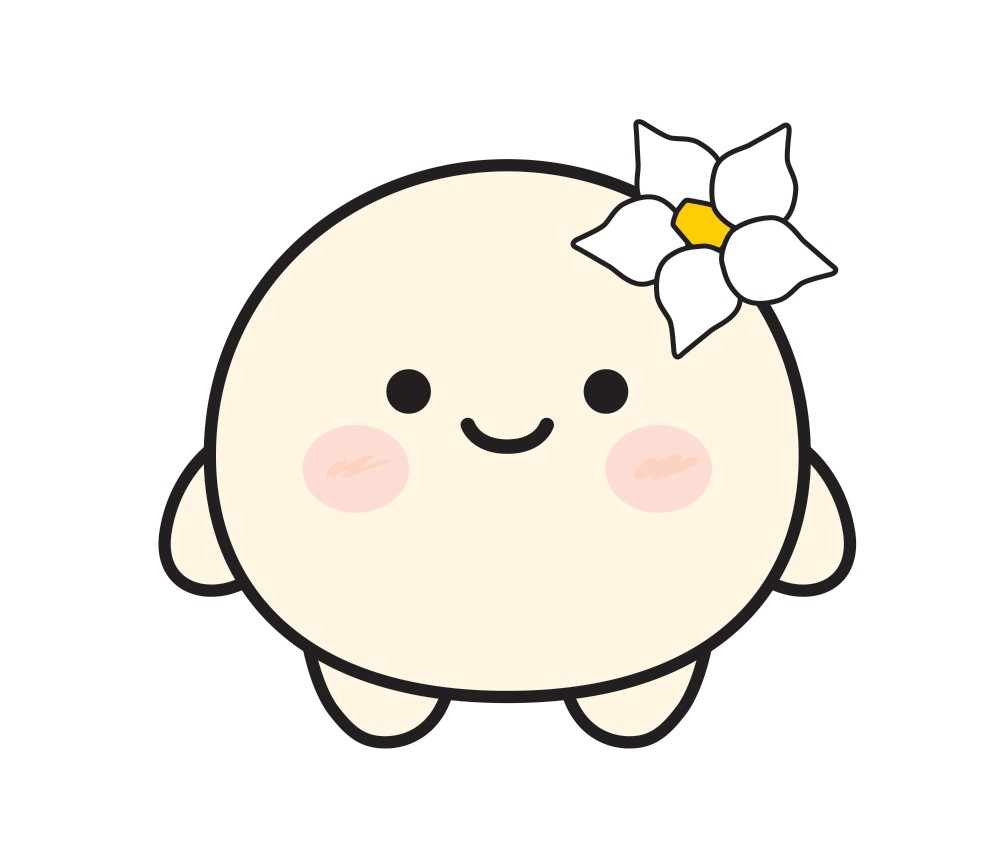
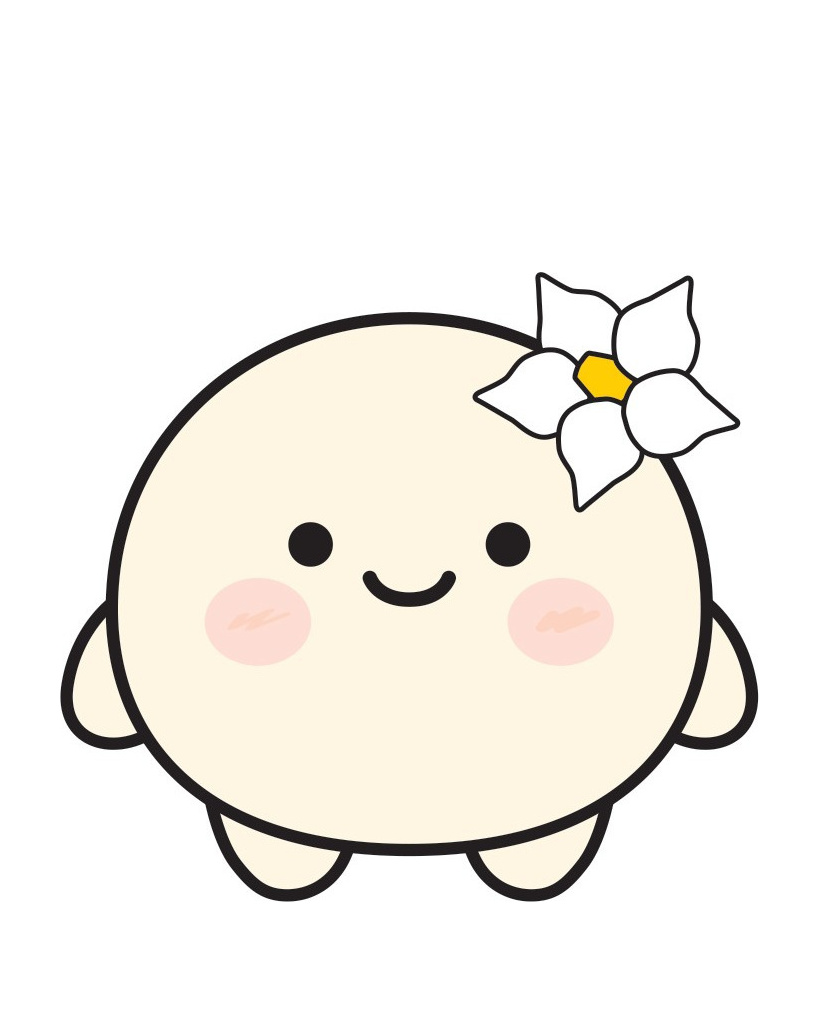
Add 쫀고매·꿀고매·당고매 and unify the five brand characters
- 06_characters: new 쫀고매(노란 고구마)·꿀고매(군고구마)·당고매(분홍 고구마)
- all five character images normalized to a 4:5 white card canvas with a
  shared scale and baseline so the lineup reads as one set
- 05_brand: five-character sheet as a wide banner in the BRAND gallery
- one-line intro per character, BRAND copy now says five characters

Changed region(s): [[0.061, 0.1211, 0.9451, 0.8778]]

diff --git a/FARMBLOSSOM_GitHub_Pages/css/style.css b/FARMBLOSSOM_GitHub_Pages/css/style.css
@@ -1,5 +1,5 @@
 :root{--ink:#27382e;--forest:#263e31;--forest-deep:#162b21;--leaf:#71836a;--sage:#dfe5d9;--paper:#f8f6ee;--cream:#f0ece1;--clay:#a76b50;--gold:#ddbd82;--muted:#647064;--line:#d8dace;--white:#fffefa;--font:system-ui,-apple-system,BlinkMacSystemFont,'Malgun Gothic','Apple SD Gothic Neo',sans-serif;--serif:'Batang','AppleMyungjo','Noto Serif KR',serif;--wrap:1200px;--header:76px;--section:112px;--radius:3px;--ease:cubic-bezier(.2,.7,.3,1)}
-*{box-sizing:border-box}html{scroll-behavior:smooth;scroll-padding-top:calc(var(--header) + 22px)}body{margin:0;background:var(--paper);color:var(--ink);font-family:var(--font);line-height:1.7;word-break:keep-all;overflow-wrap:anywhere}button,a{-webkit-tap-highlight-color:transparent}button{font:inherit;cursor:pointer}a{color:inherit;text-decoration:none}button:focus-visible,a:focus-visible{outline:3px solid var(--clay);outline-offset:4px}img{display:block;max-width:100%}[hidden]{display:none!important}.wrap{max-width:var(--wrap);width:calc(100% - 96px);margin:auto}.sr-only,.skip:not(:focus){position:absolute;width:1px;height:1px;overflow:hidden;clip-path:inset(50%)}.skip:focus{position:fixed;top:0;left:0;background:white;padding:12px;z-index:100}.header{position:sticky;top:0;z-index:20;background:rgba(248,246,238,.97);border-bottom:1px solid var(--line);backdrop-filter:blur(10px)}.nav-wrap{height:var(--header);max-width:var(--wrap);width:calc(100% - 96px);margin:auto;display:flex;align-items:center;justify-content:space-between}.logo{display:flex;align-items:center;min-width:130px}.wordmark{display:flex;flex-direction:column;line-height:1.1}.wordmark strong{font-size:26px;letter-spacing:-2px}.wordmark small{font-size:9px;letter-spacing:2px;margin-top:5px;font-weight:700}.logo img{height:60px;width:auto;max-width:190px;object-fit:contain;object-position:left center;transform:translateY(1px)}nav{display:flex;gap:36px;align-items:center}nav a{font-size:12px;letter-spacing:1.6px;font-weight:700;position:relative;padding:12px 0}nav a::after{content:'';position:absolute;bottom:4px;left:0;width:0;height:1px;background:var(--clay);transition:width .2s}nav a:hover::after,nav a.active::after{width:100%}nav a.active{color:var(--clay)}.menu-toggle{display:none}.hero{min-height:650px;height:min(760px,calc(100svh - var(--header)));position:relative;isolation:isolate;display:flex;align-items:center;color:var(--white);background:var(--forest);overflow:hidden}.hero-slides,.hero-shade,.hero-pattern{position:absolute;inset:0;z-index:-1}.hero-pattern{background:radial-gradient(ellipse at 82% 35%,#60775b 0,transparent 60%),linear-gradient(120deg,var(--forest-deep),var(--forest));color:#d3d9bd;opacity:.86}.hero-pattern svg{position:absolute;right:-3%;bottom:-18%;height:110%;width:auto;opacity:.36}.hero-slides{z-index:-1}.hero-slides img{position:absolute;width:100%;height:100%;object-fit:cover;opacity:0;transition:opacity 1.1s}.hero-slides img.current{opacity:1}.hero.has-photo .hero-pattern{display:none}.hero-shade{z-index:-1;background:linear-gradient(90deg,rgba(15,32,23,.85),rgba(15,32,23,.43) 60%,rgba(15,32,23,.15));pointer-events:none}.hero-content{padding:72px 0 100px}.eyebrow{font-size:11px;font-weight:750;letter-spacing:2.1px;color:var(--muted);display:inline-flex;gap:9px;align-items:center}.eyebrow>span{width:24px;height:1px;background:currentColor}.eyebrow.light{color:#e1d9bc}.hero h1{font-size:clamp(46px,6.2vw,86px);line-height:1.23;letter-spacing:-.065em;margin:26px 0 22px;font-weight:650}.hero h1 em{font-style:normal;color:#e0c38f}.hero p{font-size:18px;color:#e4e7d9;line-height:1.75}.primary,.outline{display:inline-flex;align-items:center;justify-content:space-between;gap:32px;border:1px solid transparent;padding:15px 24px;font-size:14px;font-weight:650;transition:background .2s,color .2s}.primary{background:var(--paper);color:var(--ink);margin-top:22px}.primary:hover{background:var(--gold)}.hero-bottom{position:absolute;bottom:0;left:50%;transform:translateX(-50%);display:flex;align-items:center;gap:18px;justify-content:space-between;border-top:1px solid #ffffff38;padding:20px 0;font-size:10px;letter-spacing:1.6px;color:#e1e3d5}.hero-bottom button{border:1px solid #ffffff55;background:transparent;color:white;padding:4px 10px}.slogan{background:var(--cream);border-bottom:1px solid var(--line)}.slogan-inner{display:flex;justify-content:space-between;align-items:center;gap:25px;padding:34px 0}.slogan p{margin:0;font-size:clamp(17px,2.3vw,26px);letter-spacing:-.045em;line-height:1.55}.slogan strong{color:var(--forest)}.slogan-mark{color:var(--clay);font-size:42px}.section{padding-top:var(--section);padding-bottom:var(--section)}.section-heading{margin-bottom:42px}.section-heading h2,.contact h2{margin:13px 0 0;line-height:1.28;font-size:clamp(32px,4.2vw,57px);letter-spacing:-.065em;font-weight:650}.section-heading h2 em{font-style:normal;color:var(--leaf)}.split{display:flex;justify-content:space-between;gap:24px;align-items:flex-end}.split p{margin:0;color:var(--muted);font-size:15px}.about-layout{display:grid;grid-template-columns:1.05fr 1fr;gap:64px;align-items:center}.about-media{min-height:420px;aspect-ratio:1.15;overflow:hidden;position:relative}.visual-placeholder{background:var(--sage);color:var(--forest);display:flex;flex-direction:column;justify-content:space-between;align-items:flex-start;padding:24px}.placeholder-index{font-size:10px;letter-spacing:2px;font-weight:700}.placeholder-art{font-size:clamp(100px,17vw,220px);line-height:1;color:var(--leaf);opacity:.45;align-self:center}.placeholder-note{font-size:12px;color:var(--muted)}.about-copy p{color:var(--muted);margin:0 0 20px}.about-copy .lead{font-size:22px;color:var(--ink);font-weight:650;letter-spacing:-.04em}.founder{border-top:1px solid var(--line);margin-top:32px;padding-top:26px}.founder h3{font-size:25px;line-height:1.35;margin:8px 0 15px;letter-spacing:-.04em}.skills{display:flex;gap:8px;flex-wrap:wrap}.skills span{font-size:12px;border:1px solid var(--line);padding:5px 10px}.projects-section{background:#eeefe7;border-block:1px solid var(--line)}.project-grid{display:grid;grid-template-columns:repeat(3,1fr);gap:20px}.project-card{display:flex;flex-direction:column;text-align:left;border:1px solid var(--line);background:var(--paper);padding:0;color:var(--ink);transition:transform .25s var(--ease),box-shadow .25s;min-width:0}.project-card:hover{transform:translateY(-5px);box-shadow:0 12px 30px #27382e12}.project-visual{aspect-ratio:4/5;position:relative;overflow:hidden;display:flex;align-items:center;justify-content:center;background:#b9c6ad;color:#49674c}.project-visual.brand{background:#e6d5ba;color:#9b664c}.project-visual.innovation{background:#c7d4cd;color:#42685e}.project-visual .graphic{width:100%;height:100%;opacity:.8}.project-visual img{width:100%;height:100%;object-fit:cover}.project-visual img.contain{object-fit:contain}.project-body{padding:24px;flex:1;display:flex;flex-direction:column;align-items:flex-start}.project-name{font-size:11px;letter-spacing:2px;color:var(--muted);font-weight:750}.project-name b{color:var(--clay);margin-right:5px;font-weight:800}.project-body h3{font-size:26px;letter-spacing:-.055em;margin:6px 0 10px}.project-body p{margin:0 0 25px;color:var(--muted);font-size:14px}.project-link{margin-top:auto;width:100%;display:flex;justify-content:space-between;border-top:1px solid var(--line);padding-top:13px;font-size:13px;font-weight:700}.status-key{display:flex;gap:18px;flex-wrap:wrap;margin-top:24px;font-size:12px;color:var(--muted)}.dot{display:inline-block;width:8px;height:8px;border-radius:50%;margin-right:5px;background:var(--leaf)}.dot.progress{background:var(--clay)}.dot.planned{background:transparent;border:1px solid var(--muted)}.filters{display:flex;flex-wrap:wrap;gap:8px;margin-bottom:25px}.filters button,.outline{background:transparent;color:var(--ink);border:1px solid var(--line)}.filters button{font-size:13px;padding:8px 20px}.filters button[aria-pressed=true],.outline:hover{background:var(--forest);color:var(--white);border-color:var(--forest)}.story-grid{display:grid;grid-template-columns:repeat(3,1fr);gap:36px 24px}.story-card{border:0;background:transparent;padding:0;text-align:left;color:var(--ink);min-width:0}.story-card .thumb{aspect-ratio:4/5;background:#fff;border:1px solid #e6e7db;overflow:hidden}.story-card img{width:100%;height:100%;object-fit:cover;transition:transform .4s}.story-card img.contain{object-fit:contain}.story-card:hover img{transform:scale(1.035)}.story-card h3{font-size:17px;margin:8px 0 0;line-height:1.4}.story-meta{display:block;color:var(--muted);font-size:11px;letter-spacing:.4px;margin-top:10px}.empty{grid-column:1/-1;border:1px dashed var(--line);background:var(--cream);padding:42px 25px;display:flex;align-items:center;justify-content:space-between;gap:20px}.empty strong{font-size:18px;letter-spacing:-.04em}.empty p{color:var(--muted);font-size:13px;margin:5px 0 0}.empty-symbol{font-size:48px;color:var(--leaf);opacity:.7}.more-row{text-align:center;margin-top:28px}.contact{background:var(--forest);color:var(--white)}.contact-layout{display:grid;grid-template-columns:1.2fr 1fr;gap:60px;align-items:end}.contact h2 em{font-style:normal;color:var(--gold)}.contact-copy p{color:#dce3d5;margin:0 0 25px}.contact-link{display:flex;justify-content:space-between;border-bottom:1px solid #ffffff40;padding:12px 0}.contact-pending{color:#c9d3c3;font-size:13px;border-top:1px solid #ffffff40;padding-top:15px}.footer{background:var(--forest-deep);color:#dce3d5}.footer-inner{display:flex;gap:20px;align-items:center;justify-content:space-between;padding:28px 0;font-size:12px}.footer-logo{font-size:21px;font-weight:700;letter-spacing:-1px}.footer-logo{display:inline-flex;align-items:baseline;gap:9px}.footer-logo small{font-size:10.5px;letter-spacing:.16em;margin-left:0;color:#b6c4ad}.footer p{margin:0}.top-button{position:fixed;bottom:23px;right:23px;width:46px;height:46px;background:var(--paper);border:1px solid var(--line);color:var(--ink);z-index:15;box-shadow:0 4px 15px #0001}dialog{color:var(--ink);background:var(--paper);border:1px solid var(--line);padding:0;width:min(900px,calc(100% - 32px));max-height:88dvh;overflow:auto}dialog::backdrop{background:#13251caa}body:has(dialog[open]){overflow:hidden}.dialog-top{position:sticky;top:0;background:var(--paper);z-index:1;display:flex;align-items:center;justify-content:space-between;padding:12px 28px;border-bottom:1px solid var(--line)}.close{background:transparent;border:0;color:inherit;font-size:30px;line-height:1;padding:6px 10px}.dialog-inner{padding:28px}.dialog-inner h2{font-size:36px;letter-spacing:-.05em;margin:0 0 8px}.dialog-inner>p{color:var(--muted)}.group-grid{display:grid;grid-template-columns:repeat(3,1fr);gap:12px;margin:26px 0}.group{border-top:1px solid var(--line);padding:12px 0}.group h3{font-size:14px;margin:0}.group ul{padding-left:18px;font-size:13px;color:var(--muted)}.gallery{display:grid;grid-template-columns:repeat(3,1fr);gap:12px}.gallery.n1{grid-template-columns:minmax(0,340px);justify-content:center}.gallery.n2{grid-template-columns:repeat(2,1fr)}.gallery.n3{grid-template-columns:repeat(3,1fr)}.gallery button,.about-media button{padding:0;border:0;background:#fff;width:100%;overflow:hidden;aspect-ratio:4/5;cursor:zoom-in}.gallery img,.about-media img{width:100%;height:100%;object-fit:cover}.gallery img.contain,.about-media img.contain{object-fit:contain}.about-media.gallery{padding:0;display:grid;grid-template-columns:1fr 1fr;grid-auto-rows:minmax(0,1fr);gap:12px;min-height:0;height:auto;aspect-ratio:1.53}.about-media.gallery button{aspect-ratio:auto;height:100%;box-shadow:inset 0 0 0 1px #0000000f}.lightbox{background:#15251d;color:white;width:fit-content;min-width:min(320px,100%);max-width:min(1100px,calc(100% - 20px));max-height:95dvh;border:0;overflow:auto}.lightbox-top{display:flex;align-items:center;justify-content:space-between;padding:8px 16px}.lightbox-stage{display:grid;grid-template-columns:45px auto 45px;align-items:center;min-height:180px;touch-action:pan-y}.lightbox-stage img{max-height:72dvh;max-width:calc(100vw - 150px);width:auto;height:auto;object-fit:contain;justify-self:center}.lightbox-stage button{background:transparent;border:0;color:white;font-size:40px;padding:0}.lightbox p{text-align:center;margin:10px 15px 20px;font-size:13px}.broken{background:var(--cream);display:grid;place-items:center;color:var(--muted);font-size:12px;min-height:100%;padding:14px;text-align:center}.lightbox .broken{color:white;background:transparent}.reveal{opacity:0;transform:translateY(14px);transition:opacity .65s,transform .65s}.reveal.visible{opacity:1;transform:none}@media(prefers-reduced-motion:reduce){*,*::before,*::after{scroll-behavior:auto!important;animation:none!important;transition:none!important}.reveal{opacity:1;transform:none}}
+*{box-sizing:border-box}html{scroll-behavior:smooth;scroll-padding-top:calc(var(--header) + 22px)}body{margin:0;background:var(--paper);color:var(--ink);font-family:var(--font);line-height:1.7;word-break:keep-all;overflow-wrap:anywhere}button,a{-webkit-tap-highlight-color:transparent}button{font:inherit;cursor:pointer}a{color:inherit;text-decoration:none}button:focus-visible,a:focus-visible{outline:3px solid var(--clay);outline-offset:4px}img{display:block;max-width:100%}[hidden]{display:none!important}.wrap{max-width:var(--wrap);width:calc(100% - 96px);margin:auto}.sr-only,.skip:not(:focus){position:absolute;width:1px;height:1px;overflow:hidden;clip-path:inset(50%)}.skip:focus{position:fixed;top:0;left:0;background:white;padding:12px;z-index:100}.header{position:sticky;top:0;z-index:20;background:rgba(248,246,238,.97);border-bottom:1px solid var(--line);backdrop-filter:blur(10px)}.nav-wrap{height:var(--header);max-width:var(--wrap);width:calc(100% - 96px);margin:auto;display:flex;align-items:center;justify-content:space-between}.logo{display:flex;align-items:center;min-width:130px}.wordmark{display:flex;flex-direction:column;line-height:1.1}.wordmark strong{font-size:26px;letter-spacing:-2px}.wordmark small{font-size:9px;letter-spacing:2px;margin-top:5px;font-weight:700}.logo img{height:60px;width:auto;max-width:190px;object-fit:contain;object-position:left center;transform:translateY(1px)}nav{display:flex;gap:36px;align-items:center}nav a{font-size:12px;letter-spacing:1.6px;font-weight:700;position:relative;padding:12px 0}nav a::after{content:'';position:absolute;bottom:4px;left:0;width:0;height:1px;background:var(--clay);transition:width .2s}nav a:hover::after,nav a.active::after{width:100%}nav a.active{color:var(--clay)}.menu-toggle{display:none}.hero{min-height:650px;height:min(760px,calc(100svh - var(--header)));position:relative;isolation:isolate;display:flex;align-items:center;color:var(--white);background:var(--forest);overflow:hidden}.hero-slides,.hero-shade,.hero-pattern{position:absolute;inset:0;z-index:-1}.hero-pattern{background:radial-gradient(ellipse at 82% 35%,#60775b 0,transparent 60%),linear-gradient(120deg,var(--forest-deep),var(--forest));color:#d3d9bd;opacity:.86}.hero-pattern svg{position:absolute;right:-3%;bottom:-18%;height:110%;width:auto;opacity:.36}.hero-slides{z-index:-1}.hero-slides img{position:absolute;width:100%;height:100%;object-fit:cover;opacity:0;transition:opacity 1.1s}.hero-slides img.current{opacity:1}.hero.has-photo .hero-pattern{display:none}.hero-shade{z-index:-1;background:linear-gradient(90deg,rgba(15,32,23,.85),rgba(15,32,23,.43) 60%,rgba(15,32,23,.15));pointer-events:none}.hero-content{padding:72px 0 100px}.eyebrow{font-size:11px;font-weight:750;letter-spacing:2.1px;color:var(--muted);display:inline-flex;gap:9px;align-items:center}.eyebrow>span{width:24px;height:1px;background:currentColor}.eyebrow.light{color:#e1d9bc}.hero h1{font-size:clamp(46px,6.2vw,86px);line-height:1.23;letter-spacing:-.065em;margin:26px 0 22px;font-weight:650}.hero h1 em{font-style:normal;color:#e0c38f}.hero p{font-size:18px;color:#e4e7d9;line-height:1.75}.primary,.outline{display:inline-flex;align-items:center;justify-content:space-between;gap:32px;border:1px solid transparent;padding:15px 24px;font-size:14px;font-weight:650;transition:background .2s,color .2s}.primary{background:var(--paper);color:var(--ink);margin-top:22px}.primary:hover{background:var(--gold)}.hero-bottom{position:absolute;bottom:0;left:50%;transform:translateX(-50%);display:flex;align-items:center;gap:18px;justify-content:space-between;border-top:1px solid #ffffff38;padding:20px 0;font-size:10px;letter-spacing:1.6px;color:#e1e3d5}.hero-bottom button{border:1px solid #ffffff55;background:transparent;color:white;padding:4px 10px}.slogan{background:var(--cream);border-bottom:1px solid var(--line)}.slogan-inner{display:flex;justify-content:space-between;align-items:center;gap:25px;padding:34px 0}.slogan p{margin:0;font-size:clamp(17px,2.3vw,26px);letter-spacing:-.045em;line-height:1.55}.slogan strong{color:var(--forest)}.slogan-mark{color:var(--clay);font-size:42px}.section{padding-top:var(--section);padding-bottom:var(--section)}.section-heading{margin-bottom:42px}.section-heading h2,.contact h2{margin:13px 0 0;line-height:1.28;font-size:clamp(32px,4.2vw,57px);letter-spacing:-.065em;font-weight:650}.section-heading h2 em{font-style:normal;color:var(--leaf)}.split{display:flex;justify-content:space-between;gap:24px;align-items:flex-end}.split p{margin:0;color:var(--muted);font-size:15px}.about-layout{display:grid;grid-template-columns:1.05fr 1fr;gap:64px;align-items:center}.about-media{min-height:420px;aspect-ratio:1.15;overflow:hidden;position:relative}.visual-placeholder{background:var(--sage);color:var(--forest);display:flex;flex-direction:column;justify-content:space-between;align-items:flex-start;padding:24px}.placeholder-index{font-size:10px;letter-spacing:2px;font-weight:700}.placeholder-art{font-size:clamp(100px,17vw,220px);line-height:1;color:var(--leaf);opacity:.45;align-self:center}.placeholder-note{font-size:12px;color:var(--muted)}.about-copy p{color:var(--muted);margin:0 0 20px}.about-copy .lead{font-size:22px;color:var(--ink);font-weight:650;letter-spacing:-.04em}.founder{border-top:1px solid var(--line);margin-top:32px;padding-top:26px}.founder h3{font-size:25px;line-height:1.35;margin:8px 0 15px;letter-spacing:-.04em}.skills{display:flex;gap:8px;flex-wrap:wrap}.skills span{font-size:12px;border:1px solid var(--line);padding:5px 10px}.projects-section{background:#eeefe7;border-block:1px solid var(--line)}.project-grid{display:grid;grid-template-columns:repeat(3,1fr);gap:20px}.project-card{display:flex;flex-direction:column;text-align:left;border:1px solid var(--line);background:var(--paper);padding:0;color:var(--ink);transition:transform .25s var(--ease),box-shadow .25s;min-width:0}.project-card:hover{transform:translateY(-5px);box-shadow:0 12px 30px #27382e12}.project-visual{aspect-ratio:4/5;position:relative;overflow:hidden;display:flex;align-items:center;justify-content:center;background:#b9c6ad;color:#49674c}.project-visual.brand{background:#e6d5ba;color:#9b664c}.project-visual.innovation{background:#c7d4cd;color:#42685e}.project-visual .graphic{width:100%;height:100%;opacity:.8}.project-visual img{width:100%;height:100%;object-fit:cover}.project-visual img.contain{object-fit:contain}.project-body{padding:24px;flex:1;display:flex;flex-direction:column;align-items:flex-start}.project-name{font-size:11px;letter-spacing:2px;color:var(--muted);font-weight:750}.project-name b{color:var(--clay);margin-right:5px;font-weight:800}.project-body h3{font-size:26px;letter-spacing:-.055em;margin:6px 0 10px}.project-body p{margin:0 0 25px;color:var(--muted);font-size:14px}.project-link{margin-top:auto;width:100%;display:flex;justify-content:space-between;border-top:1px solid var(--line);padding-top:13px;font-size:13px;font-weight:700}.status-key{display:flex;gap:18px;flex-wrap:wrap;margin-top:24px;font-size:12px;color:var(--muted)}.dot{display:inline-block;width:8px;height:8px;border-radius:50%;margin-right:5px;background:var(--leaf)}.dot.progress{background:var(--clay)}.dot.planned{background:transparent;border:1px solid var(--muted)}.filters{display:flex;flex-wrap:wrap;gap:8px;margin-bottom:25px}.filters button,.outline{background:transparent;color:var(--ink);border:1px solid var(--line)}.filters button{font-size:13px;padding:8px 20px}.filters button[aria-pressed=true],.outline:hover{background:var(--forest);color:var(--white);border-color:var(--forest)}.story-grid{display:grid;grid-template-columns:repeat(3,1fr);gap:36px 24px}.story-card{border:0;background:transparent;padding:0;text-align:left;color:var(--ink);min-width:0}.story-card .thumb{aspect-ratio:4/5;background:#fff;border:1px solid #e6e7db;overflow:hidden}.story-card img{width:100%;height:100%;object-fit:cover;transition:transform .4s}.story-card img.contain{object-fit:contain}.story-card:hover img{transform:scale(1.035)}.story-card h3{font-size:17px;margin:8px 0 0;line-height:1.4}.story-meta{display:block;color:var(--muted);font-size:11px;letter-spacing:.4px;margin-top:10px}.empty{grid-column:1/-1;border:1px dashed var(--line);background:var(--cream);padding:42px 25px;display:flex;align-items:center;justify-content:space-between;gap:20px}.empty strong{font-size:18px;letter-spacing:-.04em}.empty p{color:var(--muted);font-size:13px;margin:5px 0 0}.empty-symbol{font-size:48px;color:var(--leaf);opacity:.7}.more-row{text-align:center;margin-top:28px}.contact{background:var(--forest);color:var(--white)}.contact-layout{display:grid;grid-template-columns:1.2fr 1fr;gap:60px;align-items:end}.contact h2 em{font-style:normal;color:var(--gold)}.contact-copy p{color:#dce3d5;margin:0 0 25px}.contact-link{display:flex;justify-content:space-between;border-bottom:1px solid #ffffff40;padding:12px 0}.contact-pending{color:#c9d3c3;font-size:13px;border-top:1px solid #ffffff40;padding-top:15px}.footer{background:var(--forest-deep);color:#dce3d5}.footer-inner{display:flex;gap:20px;align-items:center;justify-content:space-between;padding:28px 0;font-size:12px}.footer-logo{font-size:21px;font-weight:700;letter-spacing:-1px}.footer-logo{display:inline-flex;align-items:baseline;gap:9px}.footer-logo small{font-size:10.5px;letter-spacing:.16em;margin-left:0;color:#b6c4ad}.footer p{margin:0}.top-button{position:fixed;bottom:23px;right:23px;width:46px;height:46px;background:var(--paper);border:1px solid var(--line);color:var(--ink);z-index:15;box-shadow:0 4px 15px #0001}dialog{color:var(--ink);background:var(--paper);border:1px solid var(--line);padding:0;width:min(900px,calc(100% - 32px));max-height:88dvh;overflow:auto}dialog::backdrop{background:#13251caa}body:has(dialog[open]){overflow:hidden}.dialog-top{position:sticky;top:0;background:var(--paper);z-index:1;display:flex;align-items:center;justify-content:space-between;padding:12px 28px;border-bottom:1px solid var(--line)}.close{background:transparent;border:0;color:inherit;font-size:30px;line-height:1;padding:6px 10px}.dialog-inner{padding:28px}.dialog-inner h2{font-size:36px;letter-spacing:-.05em;margin:0 0 8px}.dialog-inner>p{color:var(--muted)}.group-grid{display:grid;grid-template-columns:repeat(3,1fr);gap:12px;margin:26px 0}.group{border-top:1px solid var(--line);padding:12px 0}.group h3{font-size:14px;margin:0}.group ul{padding-left:18px;font-size:13px;color:var(--muted)}.gallery{display:grid;grid-template-columns:repeat(3,1fr);gap:12px}.gallery.n1{grid-template-columns:minmax(0,340px);justify-content:center}.gallery.n2{grid-template-columns:repeat(2,1fr)}.gallery.n3{grid-template-columns:repeat(3,1fr)}.gallery button,.about-media button{padding:0;border:0;background:#fff;width:100%;overflow:hidden;aspect-ratio:4/5;cursor:zoom-in}.gallery img,.about-media img{width:100%;height:100%;object-fit:cover}.gallery img.contain,.about-media img.contain{object-fit:contain}.gallery button.wide{grid-column:1/-1;aspect-ratio:2.1/1}.about-media.gallery{padding:0;display:grid;grid-template-columns:1fr 1fr;grid-auto-rows:minmax(0,1fr);gap:12px;min-height:0;height:auto;aspect-ratio:1.53}.about-media.gallery button{aspect-ratio:auto;height:100%;box-shadow:inset 0 0 0 1px #0000000f}.lightbox{background:#15251d;color:white;width:fit-content;min-width:min(320px,100%);max-width:min(1100px,calc(100% - 20px));max-height:95dvh;border:0;overflow:auto}.lightbox-top{display:flex;align-items:center;justify-content:space-between;padding:8px 16px}.lightbox-stage{display:grid;grid-template-columns:45px auto 45px;align-items:center;min-height:180px;touch-action:pan-y}.lightbox-stage img{max-height:72dvh;max-width:calc(100vw - 150px);width:auto;height:auto;object-fit:contain;justify-self:center}.lightbox-stage button{background:transparent;border:0;color:white;font-size:40px;padding:0}.lightbox p{text-align:center;margin:10px 15px 20px;font-size:13px}.broken{background:var(--cream);display:grid;place-items:center;color:var(--muted);font-size:12px;min-height:100%;padding:14px;text-align:center}.lightbox .broken{color:white;background:transparent}.reveal{opacity:0;transform:translateY(14px);transition:opacity .65s,transform .65s}.reveal.visible{opacity:1;transform:none}@media(prefers-reduced-motion:reduce){*,*::before,*::after{scroll-behavior:auto!important;animation:none!important;transition:none!important}.reveal{opacity:1;transform:none}}
 .gallery .gallery-more{display:flex;justify-content:center;min-height:44px;background:transparent;border:1px solid var(--line)}.gallery .gallery-more:hover{background:var(--forest);color:var(--white)}.lightbox-stage img[hidden]{display:none}.lightbox-stage:has(img[hidden]){grid-template-columns:45px 1fr 45px}.lightbox-stage:has(img[hidden]) .next{grid-column:3}
 #contact-links{display:flex;flex-direction:column}
 .contact-link{align-items:center;gap:16px;justify-content:space-between;padding:15px 2px;border-top:1px solid #ffffff2e;transition:border-color .2s}

diff --git a/FARMBLOSSOM_GitHub_Pages/js/main.js b/FARMBLOSSOM_GitHub_Pages/js/main.js
@@ -11,7 +11,7 @@ const projectDialog=$('#project-dialog'), lightbox=$('#lightbox');
 const dateValid=s=>{if(typeof s!=='string'||!/^\d{4}-\d{2}-\d{2}$/.test(s))return '';const d=new Date(s+'T00:00:00Z');return !isNaN(d)&&d.toISOString().slice(0,10)===s?s:''};
 const filename=p=>p.split('/').pop().replace(/\.[^.]+$/,'');
 const isCover=p=>/^(?:00[ _-])?cover(?:[ _.-]|$)/i.test(filename(p));
-function normalize(path){if(typeof path!=='string'||!path.startsWith('images/'))return null;const parts=path.split('/');if(parts.length<3||!folders.has(parts[1])||parts.some(p=>p==='.'||p==='..'||!p)||! /\.(jpe?g|png|webp|gif|svg)$/i.test(path))return null;const folder=parts[1],stem=filename(path),meta=D.images[path]||{},match=stem.match(/^(\d{4})[-_.]?(\d{2})[-_.]?(\d{2})(?=$|[ _.-])/);const date=dateValid(meta.date)|| (match?dateValid(`${match[1]}-${match[2]}-${match[3]}`):'');const prefix=stem.replace(/^\d{4}[-_.]?\d{2}[-_.]?\d{2}[ _.-]*/,'').match(/^(농업|브랜드|기술|창업|farm|brand|tech|startup)(?:[ _.-]|$)/i);const inferred=prefix?({'농업':'farm','브랜드':'brand','기술':'tech','창업':'startup'}[prefix[1]]||prefix[1].toLowerCase()):'';const category=Object.hasOwn(catNames,meta.category)&&meta.category!=='all'?meta.category:catFor[folder]||inferred||'';return {path,folder,url:parts.map(encodeURIComponent).join('/'),title:meta.title||stem,description:meta.description||'',date,category,story:meta.story!==false,contain:meta.fit?meta.fit==='contain':['01_logo','03_about','04_farm','05_brand','06_characters'].includes(folder),cover:isCover(path)}}
+function normalize(path){if(typeof path!=='string'||!path.startsWith('images/'))return null;const parts=path.split('/');if(parts.length<3||!folders.has(parts[1])||parts.some(p=>p==='.'||p==='..'||!p)||! /\.(jpe?g|png|webp|gif|svg)$/i.test(path))return null;const folder=parts[1],stem=filename(path),meta=D.images[path]||{},match=stem.match(/^(\d{4})[-_.]?(\d{2})[-_.]?(\d{2})(?=$|[ _.-])/);const date=dateValid(meta.date)|| (match?dateValid(`${match[1]}-${match[2]}-${match[3]}`):'');const prefix=stem.replace(/^\d{4}[-_.]?\d{2}[-_.]?\d{2}[ _.-]*/,'').match(/^(농업|브랜드|기술|창업|farm|brand|tech|startup)(?:[ _.-]|$)/i);const inferred=prefix?({'농업':'farm','브랜드':'brand','기술':'tech','창업':'startup'}[prefix[1]]||prefix[1].toLowerCase()):'';const category=Object.hasOwn(catNames,meta.category)&&meta.category!=='all'?meta.category:catFor[folder]||inferred||'';return {path,folder,url:parts.map(encodeURIComponent).join('/'),title:meta.title||stem,description:meta.description||'',date,category,story:meta.story!==false,contain:meta.fit?meta.fit==='contain':['01_logo','03_about','04_farm','05_brand','06_characters'].includes(folder),cover:isCover(path),wide:meta.wide===true}}
 const byName=(a,b)=>a.path.localeCompare(b.path,'ko',{numeric:true,sensitivity:'base'});
 const byCover=(a,b)=>Number(b.cover)-Number(a.cover)||byName(a,b);
 const pick=fs=>assets.filter(a=>fs.includes(a.folder)).sort(byCover);
@@ -19,8 +19,8 @@ const storyAssets=()=>assets.filter(a=>a.story&&!a.cover&&(['04_farm','05_brand'
 function photo(a,{lazy=true,cover=false}={}){const img=el('img',a.contain&&!cover?'contain':'');img.alt=a.title;img.loading=lazy?'lazy':'eager';img.decoding='async';img.addEventListener('error',()=>{const fallback=el('span','broken','이미지를 불러올 수 없습니다');img.replaceWith(fallback)},{once:true});img.src=a.url;return img}
 function graphic(type){const holder=el('div','graphic');const art={farm:'<path d="M-20 200Q90 130 170 182T320 196M-20 250Q90 180 170 232T320 246M-20 300Q90 230 170 282T320 296M-20 350Q90 280 170 332T320 346"/><circle cx="118" cy="116" r="33"/>',brand:'<path d="M150 336V168M150 214C58 212 50 96 76 86C130 88 150 152 150 214M150 214C242 212 250 96 224 86C170 88 150 152 150 214"/><circle cx="150" cy="86" r="21"/><path d="M96 336H204"/>',innovation:'<circle cx="150" cy="152" r="116" stroke-opacity=".3"/><rect x="58" y="64" width="184" height="138" rx="6"/><path d="M58 96H242M86 80H98M106 80H118"/><path d="M84 176L120 138L150 166L206 106"/><path d="M192 106H206V120"/><circle cx="84" cy="176" r="4.5"/><circle cx="120" cy="138" r="4.5"/><circle cx="150" cy="166" r="4.5"/><path d="M150 202V232M112 232H188"/><path d="M92 292H208" stroke-dasharray="4 7"/><circle cx="92" cy="292" r="6"/><circle cx="150" cy="292" r="6"/><circle cx="208" cy="292" r="6"/>'};holder.innerHTML=`<svg width="100%" height="100%" viewBox="0 0 300 375" fill="none" stroke="currentColor" stroke-width="1.6" aria-hidden="true">${art[type]}</svg>`;return holder}
 function renderProjects(){const grid=$('#project-grid');grid.replaceChildren();D.projects.forEach(p=>{const card=el('button','project-card');card.type='button';card.setAttribute('aria-haspopup','dialog');const v=el('div','project-visual '+p.theme),a=pick(p.folders)[0];v.append(a?photo(a):graphic(p.theme));const body=el('div','project-body'),name=el('span','project-name');name.append(el('b','',p.number),document.createTextNode(' '+p.name));const link=el('span','project-link');const arrow=el('i','ico ico-ne');arrow.setAttribute('aria-hidden','true');link.append(el('span','','프로젝트 자세히 보기'),arrow);body.append(name,el('h3','',p.title),el('p','',p.intro),link);card.append(v,body);card.addEventListener('click',()=>openProject(p,card));grid.append(card)})}
-function gallery(items,target,{limit=9,more=true}={}){target.replaceChildren();target.classList.add('gallery');let count=limit;function draw(){target.replaceChildren();for(let i=1;i<=3;i++)target.classList.remove('n'+i);if(items.length<=3&&items.length)target.classList.add('n'+items.length);if(!items.length){const empty=el('div','empty');empty.append(el('span','','등록된 이미지가 없습니다.'));target.append(empty);return}items.slice(0,count).forEach((a,i)=>{const b=el('button');b.type='button';b.setAttribute('aria-label',a.title+' 확대');b.append(photo(a));b.addEventListener('click',()=>openLight(items,i,b));target.append(b)});if(more&&count<items.length){const b=el('button','gallery-more outline',`이미지 더보기 (${items.length-count})`);b.style.gridColumn='1 / -1';b.style.aspectRatio='auto';b.addEventListener('click',()=>{const next=count;count+=9;draw();target.querySelectorAll('button')[next]?.focus()});target.append(b)}}draw()}
-function openProject(p,trigger){projectReturn=trigger;const content=$('#project-content'),inner=el('div','dialog-inner');const h=el('h2','',p.name+' — '+p.title);h.id='project-title';inner.append(h,el('p','',p.intro));if(p.link&&typeof p.link.href==='string'&&/^https?:\/\//.test(p.link.href)){const a=el('a','outline dialog-link');a.href=p.link.href;a.target='_blank';a.rel='noopener noreferrer';a.append(el('span','',p.link.label||'웹앱 바로가기'),el('i','ico ico-ne'));inner.append(a)}const groups=el('div','group-grid');p.groups.forEach(g=>{const group=el('div','group'),title=el('h3');title.append(el('i','dot '+g.status),document.createTextNode(g.label));const list=el('ul');g.items.forEach(item=>list.append(el('li','',item)));group.append(title,list);groups.append(group)});inner.append(groups);const shots=pick(p.folders);if(shots.length){inner.append(el('h3','','프로젝트 갤러리'));const gal=el('div','gallery');gallery(shots,gal);inner.append(gal)};content.replaceChildren(inner);projectDialog.showModal();projectDialog.scrollTop=0;$('.close',projectDialog).focus()}
+function gallery(items,target,{limit=9,more=true}={}){target.replaceChildren();target.classList.add('gallery');let count=limit;function draw(){target.replaceChildren();for(let i=1;i<=3;i++)target.classList.remove('n'+i);if(items.length<=3&&items.length)target.classList.add('n'+items.length);if(!items.length){const empty=el('div','empty');empty.append(el('span','','등록된 이미지가 없습니다.'));target.append(empty);return}items.slice(0,count).forEach((a,i)=>{const b=el('button');b.type='button';b.setAttribute('aria-label',a.title+' 확대');b.append(photo(a));if(a.wide)b.classList.add('wide');b.addEventListener('click',()=>openLight(items,i,b));target.append(b)});if(more&&count<items.length){const b=el('button','gallery-more outline',`이미지 더보기 (${items.length-count})`);b.style.gridColumn='1 / -1';b.style.aspectRatio='auto';b.addEventListener('click',()=>{const next=count;count+=9;draw();target.querySelectorAll('button')[next]?.focus()});target.append(b)}}draw()}
+function openProject(p,trigger){projectReturn=trigger;const content=$('#project-content'),inner=el('div','dialog-inner');const h=el('h2','',p.name+' — '+p.title);h.id='project-title';inner.append(h,el('p','',p.intro));if(p.link&&typeof p.link.href==='string'&&/^https?:\/\//.test(p.link.href)){const a=el('a','outline dialog-link');a.href=p.link.href;a.target='_blank';a.rel='noopener noreferrer';a.append(el('span','',p.link.label||'웹앱 바로가기'),el('i','ico ico-ne'));inner.append(a)}const groups=el('div','group-grid');p.groups.forEach(g=>{const group=el('div','group'),title=el('h3');title.append(el('i','dot '+g.status),document.createTextNode(g.label));const list=el('ul');g.items.forEach(item=>list.append(el('li','',item)));group.append(title,list);groups.append(group)});inner.append(groups);const shots=pick(p.folders).sort((a,b)=>Number(b.wide)-Number(a.wide)||byName(a,b));if(shots.length){inner.append(el('h3','','프로젝트 갤러리'));const gal=el('div','gallery');gallery(shots,gal);inner.append(gal)};content.replaceChildren(inner);projectDialog.showModal();projectDialog.scrollTop=0;$('.close',projectDialog).focus()}
 function openLight(items,i,trigger){lightItems=items;lightIndex=i;lightReturn=trigger;drawLight();lightbox.showModal();$('.close',lightbox).focus()}
 function drawLight(){const a=lightItems[lightIndex];if(!a)return;const img=$('#lightbox-img');img.hidden=false;img.alt=a.title;img.src=a.url;$('#lightbox-count').textContent=`${lightIndex+1} / ${lightItems.length}`;$('#lightbox-caption').textContent=[a.title,a.date,a.description].filter(Boolean).join(' · ');$('.prev',lightbox).disabled=$('.next',lightbox).disabled=lightItems.length<2}
 $('#lightbox-img').addEventListener('error',()=>{$('#lightbox-img').hidden=true;$('#lightbox-caption').textContent='이미지를 불러올 수 없습니다 · '+lightItems[lightIndex]?.title});

diff --git a/FARMBLOSSOM_GitHub_Pages/js/data.js b/FARMBLOSSOM_GitHub_Pages/js/data.js
@@ -6,8 +6,8 @@ window.FARM_DATA = {
       {status:'progress',label:'기획·개발 중',items:['과원 조성 프로젝트','생산 및 품질관리 체계 정비']},
       {status:'planned',label:'향후 계획',items:['사과대추 재배·관리 및 작목 확장']}
     ]},
-    {id:'brand', number:'02', name:'BRAND', title:'가치를 키우다', intro:'농산물에 이야기와 디자인을 더해 기억에 남는 브랜드 경험을 기획합니다.', folders:['05_brand','06_characters'], theme:'brand', groups:[
-      {status:'active',label:'운영·활동',items:['퍼뜨기·쑤담이 캐릭터 기획','브랜드 콘텐츠 및 상품 디자인 활동']},
+    {id:'brand', number:'02', name:'BRAND', title:'가치를 키우다', intro:'농산물에 이야기와 디자인을 더해 기억에 남는 브랜드 경험을 기획합니다. 퍼뜨기·쑤담이와 쫀고매·꿀고매·당고매, 다섯 캐릭터가 꽃폈네의 얼굴입니다.', folders:['05_brand','06_characters'], theme:'brand', groups:[
+      {status:'active',label:'운영·활동',items:['퍼뜨기·쑤담이와 쫀고매·꿀고매·당고매 5종 캐릭터 기획','브랜드 콘텐츠 및 상품 디자인 활동']},
       {status:'progress',label:'기획·개발 중',items:['꽃폈네 스토리박스','패키지와 캐릭터 굿즈·키링','당고매·꿀고매·쫀고매 상품 기획']},
       {status:'planned',label:'향후 계획',items:['스토리북 및 농산물 가공상품 확장']}
     ]},
@@ -21,11 +21,18 @@ window.FARM_DATA = {
   // 사진 제목·설명·분류. 키는 images/ 아래 실제 상대 경로와 같아야 합니다.
   // fit:'contain'은 포스터·카드처럼 잘리면 안 되는 이미지에, fit:'cover'는 실제 현장 사진에 사용합니다.
   // (미지정 시 01_logo·03_about·04_farm·05_brand·06_characters는 contain, 나머지는 cover)
+  // wide:true는 BRAND 갤러리에서 가로 한 줄을 다 쓰는 판형입니다(캐릭터 기본형 시트처럼 가로로 긴 자료).
   images:{
     'images/03_about/창업자소개.png':{title:'창업자 소개',description:'밭을 일구고 농장을 돌보고, 수확한 농산물까지 하나씩 직접 확인합니다.'},
     'images/03_about/fm_jjeongi.jpg':{title:'FM 쩡이',description:'꽃폈네 농장의 모든 판단과 승인을 담당하는 총괄 농장관리자 캐릭터입니다.'},
     'images/04_farm/품종소개.png':{title:'품종 소개',category:'farm',description:'계절과 농장에 맞는 품종을 골라 정성껏 키웁니다.'},
     'images/05_brand/꽃폈네 스토리박스.png':{title:'꽃폈네 스토리박스',category:'brand',description:'농산물과 함께 농장의 한 철 이야기를 담아 보냅니다.'},
+    'images/05_brand/꽃폈네 캐릭터 5종.jpg':{title:'꽃폈네 캐릭터 5종',category:'brand',fit:'contain',story:false,wide:true,description:'퍼뜨기·쑤담이와 쫀고매·꿀고매·당고매 — 다섯 캐릭터의 기본형과 표정을 한 장에 담았습니다.'},
+    'images/06_characters/퍼뜨기.jpg':{title:'퍼뜨기',category:'brand',fit:'contain',description:'사랑을 퍼뜨리고 싶어 머리에 하트 고구마잎을 단 감자입니다.'},
+    'images/06_characters/쑤담이.jpg':{title:'쑤담이',category:'brand',fit:'contain',description:'감자꽃을 머리에 꽂은, 보기만 해도 쓰다듬어 주고 싶은 감자입니다.'},
+    'images/06_characters/쫀고매.jpg':{title:'쫀고매',category:'brand',fit:'contain',description:'노란 고구마. 쫀득한 속처럼 말랑한 미소를 가졌습니다.'},
+    'images/06_characters/꿀고매.jpg':{title:'꿀고매',category:'brand',fit:'contain',description:'노릇하게 구운 군고구마. 꿀처럼 달콤한 속이 자랑입니다.'},
+    'images/06_characters/당고매.jpg':{title:'당고매',category:'brand',fit:'contain',description:'분홍 고구마. 갓 캐낸 밭의 달콤함을 담았습니다.'},
     'images/08_story/퍼뜨기와 쑤담이.png':{category:'brand',fit:'contain'},
     'images/08_story/농부가 된 퍼뜨기와 쑤담이.png':{category:'brand',fit:'contain'},
     // 06_characters에 같은 사진이 있어 FIELD NOTES에는 한 번만 보이도록 합니다.

diff --git a/FARMBLOSSOM_GitHub_Pages/js/images-fallback.js b/FARMBLOSSOM_GitHub_Pages/js/images-fallback.js
@@ -1,1 +1,1 @@
-window.FARM_LOCAL_IMAGES = ["images/01_logo/꽃폈네로고.png","images/03_about/창업자소개.png","images/03_about/fm_jjeongi.jpg","images/04_farm/품종소개.png","images/05_brand/꽃폈네 스토리박스.png","images/06_characters/쑤담이.jpg","images/06_characters/퍼뜨기.jpg","images/08_story/농부가 된 퍼뜨기와 쑤담이.png","images/08_story/쑤담이.jpg","images/08_story/퍼뜨기.jpg","images/08_story/퍼뜨기와 쑤담이.png","images/08_story/fm_jjeongi.jpg"];
+window.FARM_LOCAL_IMAGES = ["images/01_logo/꽃폈네로고.png","images/03_about/창업자소개.png","images/03_about/fm_jjeongi.jpg","images/04_farm/품종소개.png","images/05_brand/꽃폈네 스토리박스.png","images/05_brand/꽃폈네 캐릭터 5종.jpg","images/06_characters/꿀고매.jpg","images/06_characters/당고매.jpg","images/06_characters/쑤담이.jpg","images/06_characters/쫀고매.jpg","images/06_characters/퍼뜨기.jpg","images/08_story/농부가 된 퍼뜨기와 쑤담이.png","images/08_story/쑤담이.jpg","images/08_story/퍼뜨기와 쑤담이.png","images/08_story/퍼뜨기.jpg","images/08_story/fm_jjeongi.jpg"];
